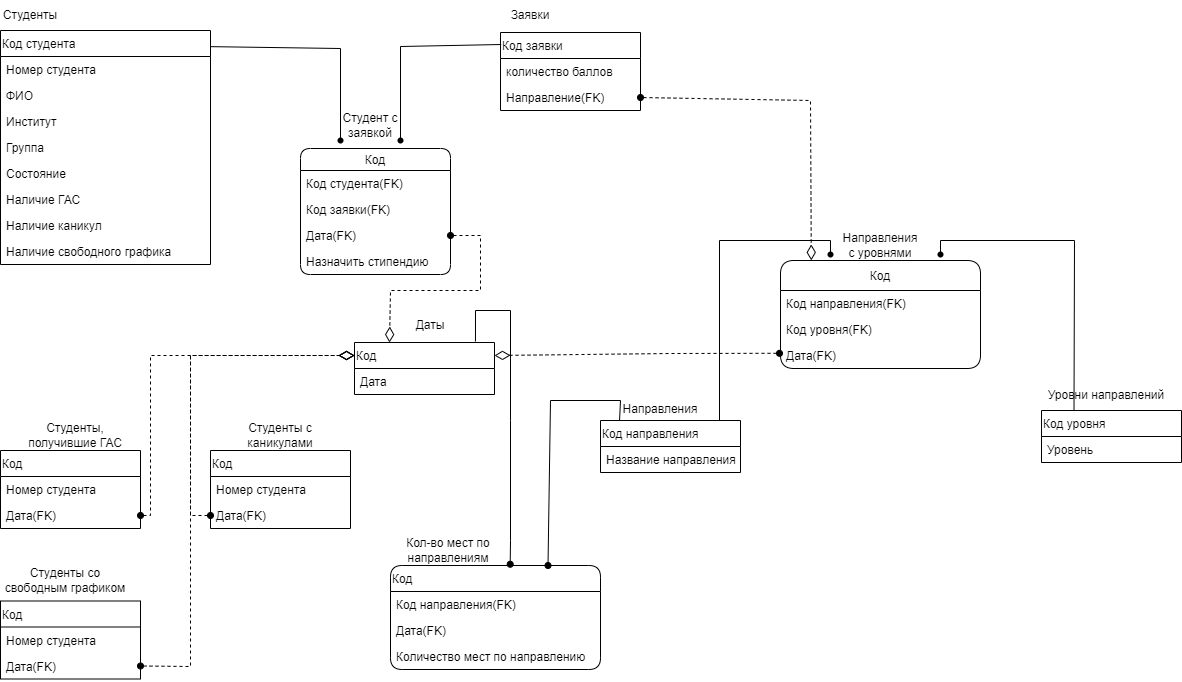
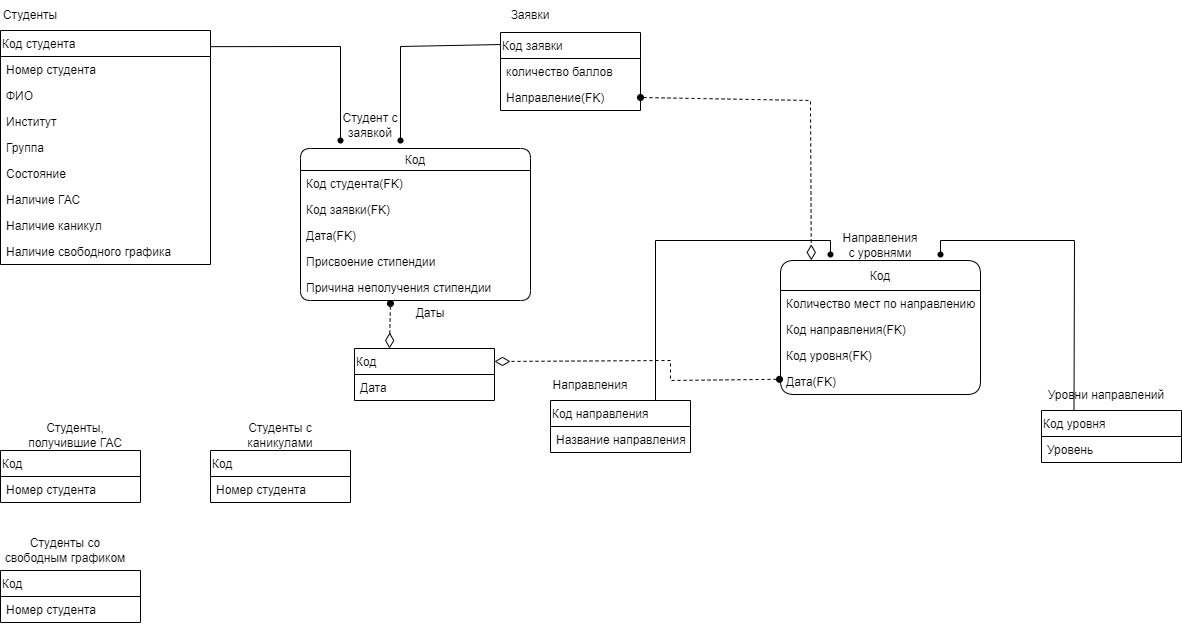
+

diff --git a/База знаний/Система «Рейтинг студентов»/Модуль 5 Начисление рейтинговой стипендии/2 Проектирование/Проектирование БД/Проектирование БД. Версия 2.md b/База знаний/Система «Рейтинг студентов»/Модуль 5 Начисление рейтинговой стипендии/2 Проектирование/Проектирование БД/Проектирование БД. Версия 2.md
@@ -33,6 +33,7 @@
 |reatingId|Номер заявки|bigint|NOT NULL, FK(Rating.Id)|
 |dateId|Номер рейтингового сезона|bigint|NOT NULL, FK(DateTable.Id)|
 |destination|Присвоение стипендии|bool|NOT NULL|
+|cause|Причина неполучения стипендии|character varying(20)|-|
 
 4)  Таблица DataTable служит для хранения даты рейтингового периода
 
